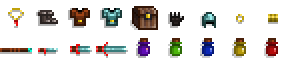
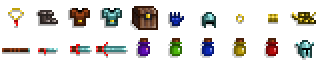
added monsters pic, use id in putTile, showing all items.

diff --git a/js/viewer.js b/js/viewer.js
@@ -47,7 +47,7 @@ var Viewer = function(width, height){
 		canvas.context.fillStyle = "rgb(0, 0, 0)";
 		canvas.context.fillRect(0, 0, canvas.canvasElement.width, canvas.canvasElement.height);
 	}
-	var putTile = function(x, y, symbol, color){
+	var putTile = function(x, y, id, symbol, color){
 		if(symbol=='@'){
 			if(player.charClassId == "@f")
 				canvas.context.drawImage(Pics.player, 0, 0, canvas.tileSize, canvas.tileSize, x * canvas.tileSize, (y-1) * canvas.tileSize, canvas.tileSize ,canvas.tileSize);
@@ -63,7 +63,45 @@ var Viewer = function(width, height){
 			canvas.context.drawImage(Pics.tiles, canvas.tileSize*19, canvas.tileSize, canvas.tileSize, canvas.tileSize, x * canvas.tileSize, (y-1) * canvas.tileSize, canvas.tileSize ,canvas.tileSize);			
 		} else if(symbol=="'") {
 			canvas.context.drawImage(Pics.tiles, canvas.tileSize*21, canvas.tileSize, canvas.tileSize, canvas.tileSize, x * canvas.tileSize, (y-1) * canvas.tileSize, canvas.tileSize ,canvas.tileSize);			
-		}else {	
+		} else if(id=="sh"){
+			canvas.context.drawImage(Pics.items, canvas.tileSize*5, canvas.tileSize, canvas.tileSize, canvas.tileSize, x * canvas.tileSize, (y-1) * canvas.tileSize, canvas.tileSize ,canvas.tileSize);
+		} else if(id=="clc"){
+			canvas.context.drawImage(Pics.items, canvas.tileSize*4, canvas.tileSize, canvas.tileSize, canvas.tileSize, x * canvas.tileSize, (y-1) * canvas.tileSize, canvas.tileSize ,canvas.tileSize);
+		} else if(id=="ee"){
+			canvas.context.drawImage(Pics.items, canvas.tileSize*6, canvas.tileSize, canvas.tileSize, canvas.tileSize, x * canvas.tileSize, (y-1) * canvas.tileSize, canvas.tileSize ,canvas.tileSize);
+		} else if(id=="eh"){
+			canvas.context.drawImage(Pics.items, canvas.tileSize*8, canvas.tileSize, canvas.tileSize, canvas.tileSize, x * canvas.tileSize, (y-1) * canvas.tileSize, canvas.tileSize ,canvas.tileSize);
+		} else if(id=="el"){
+			canvas.context.drawImage(Pics.items, canvas.tileSize*7, canvas.tileSize, canvas.tileSize, canvas.tileSize, x * canvas.tileSize, (y-1) * canvas.tileSize, canvas.tileSize ,canvas.tileSize);
+		} else if(id=="be"){
+			canvas.context.drawImage(Pics.items, canvas.tileSize, 0, canvas.tileSize, canvas.tileSize, x * canvas.tileSize, (y-1) * canvas.tileSize, canvas.tileSize ,canvas.tileSize);
+		} else if(id=="hs"){
+			canvas.context.drawImage(Pics.items, canvas.tileSize*9, 0, canvas.tileSize, canvas.tileSize, x * canvas.tileSize, (y-1) * canvas.tileSize, canvas.tileSize ,canvas.tileSize);
+		} else if(id=="la"){
+			canvas.context.drawImage(Pics.items, canvas.tileSize*2, 0, canvas.tileSize, canvas.tileSize, x * canvas.tileSize, (y-1) * canvas.tileSize, canvas.tileSize ,canvas.tileSize);
+		} else if(id=="bp"){
+			canvas.context.drawImage(Pics.items, canvas.tileSize*3, 0, canvas.tileSize, canvas.tileSize, x * canvas.tileSize, (y-1) * canvas.tileSize, canvas.tileSize ,canvas.tileSize);
+		} else if(id=="row"){
+			canvas.context.drawImage(Pics.items, canvas.tileSize*7, 0, canvas.tileSize, canvas.tileSize, x * canvas.tileSize, (y-1) * canvas.tileSize, canvas.tileSize ,canvas.tileSize);
+		} else if(id=="aoe"){
+			canvas.context.drawImage(Pics.items, 0, 0, canvas.tileSize, canvas.tileSize, x * canvas.tileSize, (y-1) * canvas.tileSize, canvas.tileSize ,canvas.tileSize);
+		} else if(id=="coe"){
+			canvas.context.drawImage(Pics.items, canvas.tileSize*6, 0, canvas.tileSize, canvas.tileSize, x * canvas.tileSize, (y-1) * canvas.tileSize, canvas.tileSize ,canvas.tileSize);
+		} else if(id=="hoh"){
+			canvas.context.drawImage(Pics.items, canvas.tileSize*9, canvas.tileSize, canvas.tileSize, canvas.tileSize, x * canvas.tileSize, (y-1) * canvas.tileSize, canvas.tileSize ,canvas.tileSize);
+		} else if(id=="god"){
+			canvas.context.drawImage(Pics.items, canvas.tileSize*5, 0, canvas.tileSize, canvas.tileSize, x * canvas.tileSize, (y-1) * canvas.tileSize, canvas.tileSize ,canvas.tileSize);
+		} else if(id=="ab"){
+			canvas.context.drawImage(Pics.items, canvas.tileSize*8, 0, canvas.tileSize, canvas.tileSize, x * canvas.tileSize, (y-1) * canvas.tileSize, canvas.tileSize ,canvas.tileSize);
+		} else if(id=="ss"){
+			canvas.context.drawImage(Pics.items, canvas.tileSize*2, canvas.tileSize, canvas.tileSize, canvas.tileSize, x * canvas.tileSize, (y-1) * canvas.tileSize, canvas.tileSize ,canvas.tileSize);
+		} else if(id=="ls"){
+			canvas.context.drawImage(Pics.items, canvas.tileSize*3, canvas.tileSize, canvas.tileSize, canvas.tileSize, x * canvas.tileSize, (y-1) * canvas.tileSize, canvas.tileSize ,canvas.tileSize);
+		} else if(id=="s"){
+			canvas.context.drawImage(Pics.items, 0, canvas.tileSize, canvas.tileSize, canvas.tileSize, x * canvas.tileSize, (y-1) * canvas.tileSize, canvas.tileSize ,canvas.tileSize);
+		} else if(id=="d"){
+			canvas.context.drawImage(Pics.items, canvas.tileSize, canvas.tileSize, canvas.tileSize, canvas.tileSize, x * canvas.tileSize, (y-1) * canvas.tileSize, canvas.tileSize ,canvas.tileSize);
+		} else {	
 			canvas.context.fillStyle = "rgb(" + color[0] + "," + color[1] + "," + color[2] + ")";
 			canvas.context.fillText(symbol, x * canvas.tileSize, y * canvas.tileSize);
 		}

diff --git a/js/creature.js b/js/creature.js
@@ -216,9 +216,9 @@ var Creature = function(startX, startY, id){
 		// fixme - load color from creature-types file
 		
 		if(id=="@")
-			viewer.putTile(viewer.center[0] + vars.x - player.vars.x, viewer.center[1] + vars.y - player.vars.y, vars.symbol, this.color);
+			viewer.putTile(viewer.center[0] + vars.x - player.vars.x, viewer.center[1] + vars.y - player.vars.y, id, vars.symbol, this.color);
 		else
-			viewer.putTile(viewer.center[0] + vars.x - player.vars.x, viewer.center[1] + vars.y - player.vars.y, vars.symbol, Settings.creatureColor);
+			viewer.putTile(viewer.center[0] + vars.x - player.vars.x, viewer.center[1] + vars.y - player.vars.y, id, vars.symbol, Settings.creatureColor);
 	}
 	
 	var pickUp = function(item, dx, dy, isPlayer){

diff --git a/js/map.js b/js/map.js
@@ -96,9 +96,9 @@ var Map = function(width, height){
 					var ny = Settings.viewerHeight / 2 + y - player.vars.y;
 					if (nx >= 0 && ny >= 0 && nx < Settings.viewerWidth && ny <= Settings.viewerHeight) 
 						if (tiles[[x, y]].seen == 2) 
-							viewer.putTile(nx, ny, tiles[[x, y]].symbol, [200, 200, 200]);
+							viewer.putTile(nx, ny, tiles[[x, y]].id, tiles[[x, y]].symbol, [200, 200, 200]);
 						else if (tiles[[x, y]].seen == 1) 
-							viewer.putTile(nx, ny, tiles[[x, y]].symbol, [64, 64, 64]);
+							viewer.putTile(nx, ny, tiles[[x, y]].id, tiles[[x, y]].symbol, [64, 64, 64]);
 				//}
 			}
 		for (var c = 0; c < vars.items.length; c++) 

diff --git a/js/item.js b/js/item.js
@@ -57,7 +57,7 @@ var Item = function(startX, startY, id){
 	}
 	var draw = function(){
 		// fixme: color
-		viewer.putTile(viewer.center[0] + vars.x - player.vars.x, viewer.center[1] + vars.y - player.vars.y, vars.symbol, vars.color);
+		viewer.putTile(viewer.center[0] + vars.x - player.vars.x, viewer.center[1] + vars.y - player.vars.y, id, vars.symbol, vars.color);
 	}
 	var stringify = function(){
 		return "" + vars.x + "," + vars.y + "," + id;

diff --git a/js/cursor.js b/js/cursor.js
@@ -4,7 +4,7 @@ Cursor = function(startX, startY, symbol){
 		y: startY
 	}
 	var draw = function(){
-		viewer.putTile(viewer.center[0] - player.vars.x + vars.x, viewer.center[1] - player.vars.y + vars.y, symbol, Settings.cursorColor);
+		viewer.putTile(viewer.center[0] - player.vars.x + vars.x, viewer.center[1] - player.vars.y + vars.y, "cursor", symbol, Settings.cursorColor);
 	}
 	var move = function(dx, dy){
 		var newX = vars.x + dx;
